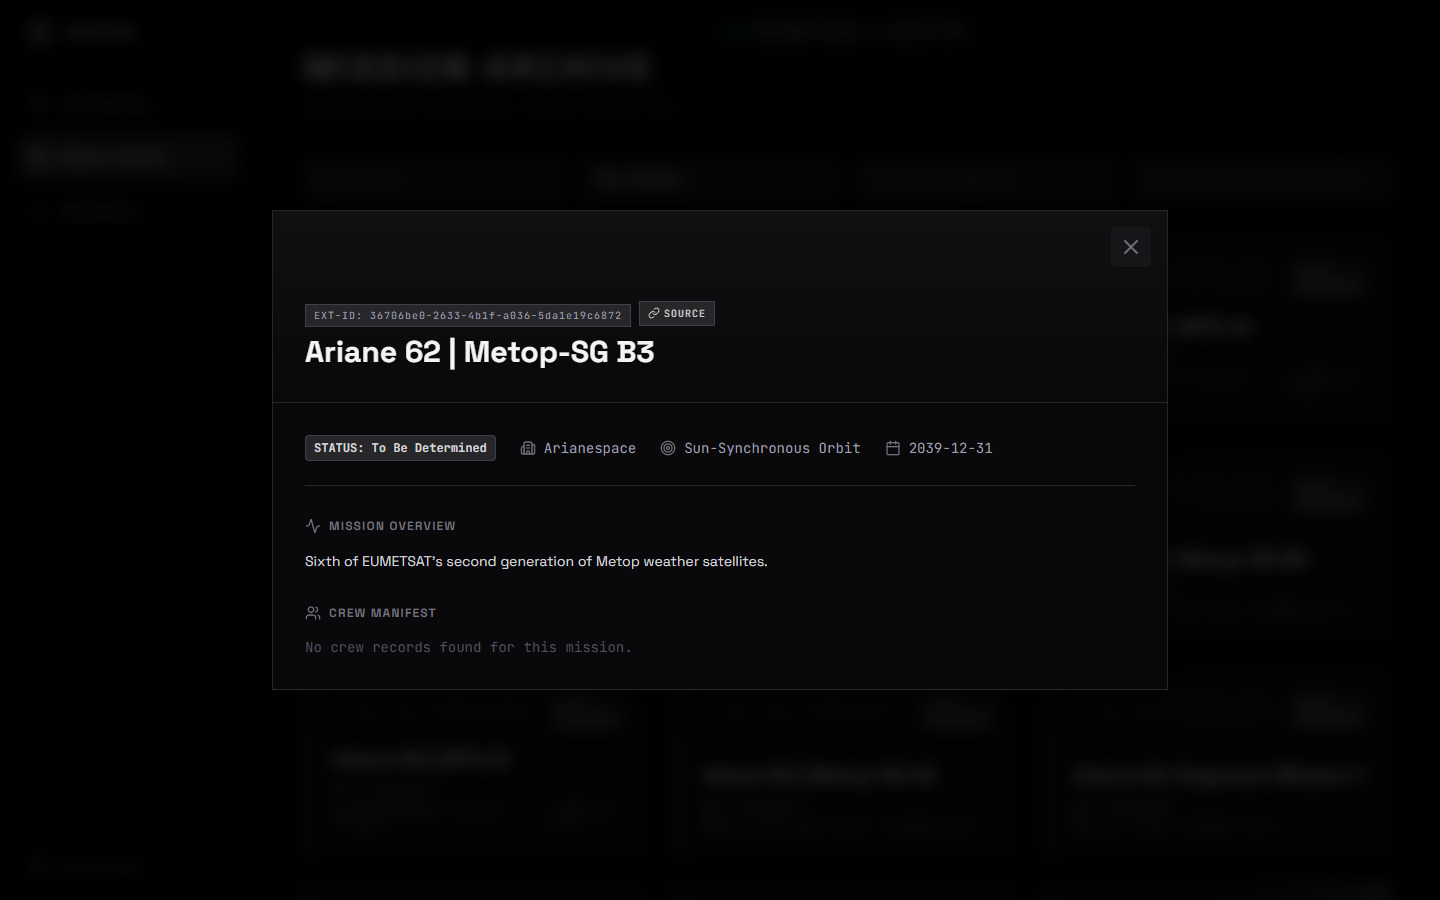
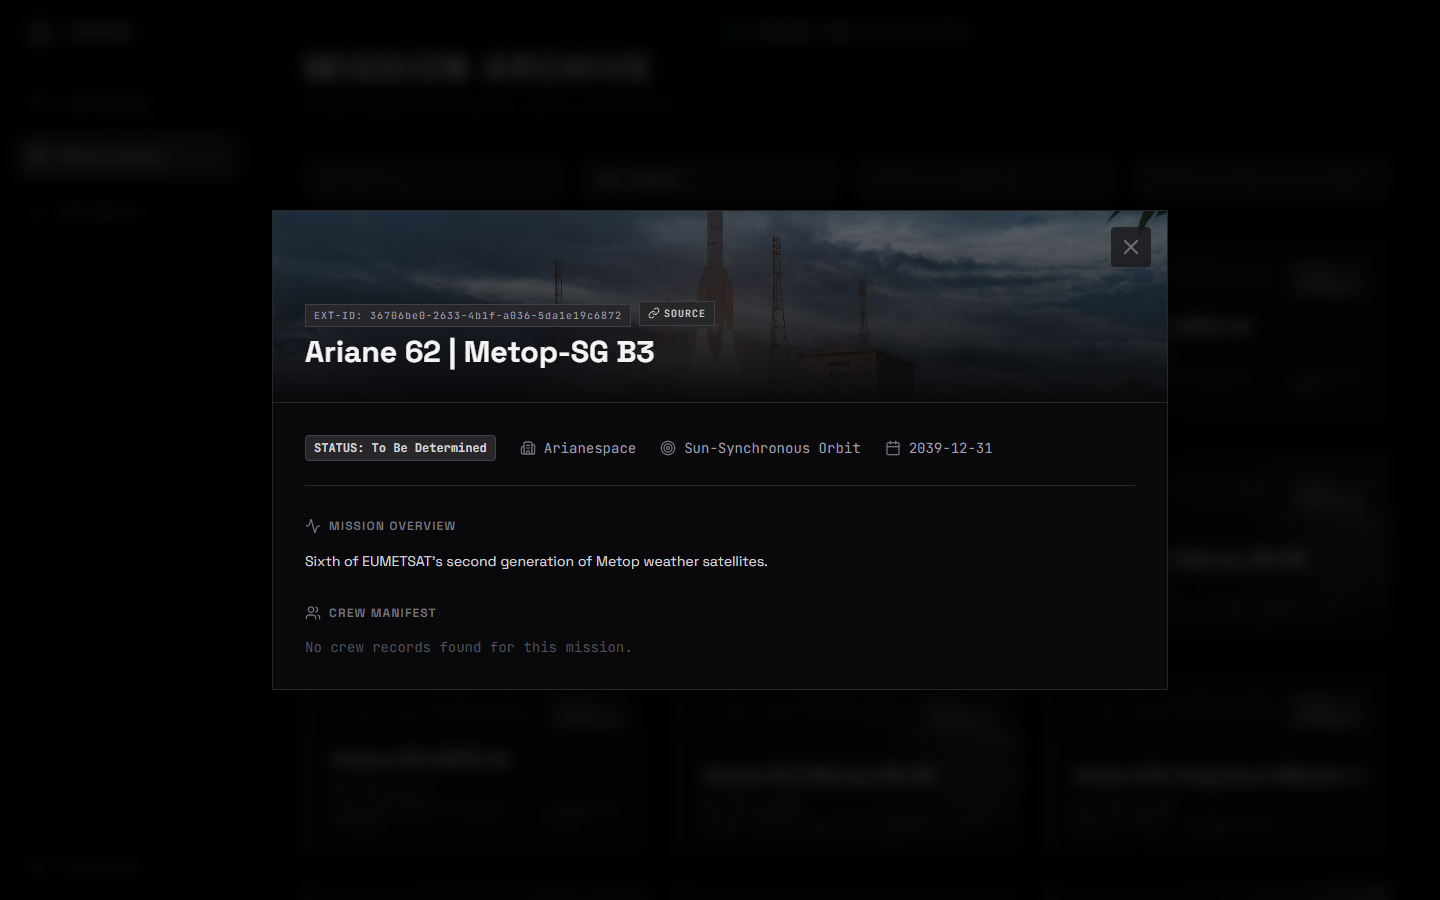
docs: polish README phrasing, fix UI copy, resolve backend lint, and update screenshots

Changed region(s): [[0.1875, 0.2178, 0.8125, 0.4044]]

diff --git a/frontend/src/pages/SimulationConsole.jsx b/frontend/src/pages/SimulationConsole.jsx
@@ -229,7 +229,7 @@ export default function SimulationConsole() {
                   className="w-full bg-zinc-950 border border-zinc-800 rounded px-3 py-2 text-white font-mono text-sm focus:outline-none focus:border-zinc-500"
                   required
                 />
-                <p className="text-[10px] font-mono text-zinc-600 mt-1">Number of concurrent records to generate and queue.</p>
+                <p className="text-[10px] font-mono text-zinc-600 mt-1">Number of records to generate and queue.</p>
               </label>
 
               <div className="pt-2">

diff --git a/frontend/src/pages/LiveTracking.jsx b/frontend/src/pages/LiveTracking.jsx
@@ -77,7 +77,7 @@ export default function LiveTracking() {
       }
     } catch (err) {
       console.error(err);
-      toast.error("AI Link Failed. Are you logged in?");
+      toast.error("AI service unavailable or rate limited.");
     } finally {
       setIsGenerating(false);
     }

diff --git a/backend/tests/test_missions.py b/backend/tests/test_missions.py
@@ -8,7 +8,7 @@ os.environ.setdefault("SECRET_KEY", "test-secret")
 import pytest
 from fastapi.testclient import TestClient
 from main import app
-from database import SessionLocal, engine
+from database import engine
 import models
 
 models.Base.metadata.create_all(bind=engine)
@@ -28,12 +28,12 @@ def setup_test_data(admin_token):
     client.post("/spacecraft", json={"name": "Test Rocket", "classification": "Rocket", "agency_id": 1}, headers={"Authorization": f"Bearer {admin_token}"})
 
     # Create Missions
-    m1 = client.post("/missions", json={
+    client.post("/missions", json={
         "name": "Alpha Mission", "target_destination": "LEO", "spacecraft_id": 1, 
         "launch_date": "2024-01-01", "status": "Success", "objective": "Test 1"
     }, headers={"Authorization": f"Bearer {admin_token}"})
 
-    m2 = client.post("/missions", json={
+    client.post("/missions", json={
         "name": "Beta Mission", "target_destination": "Moon", "spacecraft_id": 1, 
         "launch_date": "2025-01-01", "status": "Planning", "objective": "Test 2"
     }, headers={"Authorization": f"Bearer {admin_token}"})

diff --git a/README.md b/README.md
@@ -1,6 +1,6 @@
 # A.R.E.S. — Autonomous Relay & Exploration System
 
-> A full-stack space exploration platform built to ingest, buffer, and visualize high-frequency satellite telemetry using a dual-tier database architecture, real-time orbital tracking, and Generative AI.
+> FastAPI + React telemetry system demonstrating Redis-buffered ingestion, Postgres persistence, JWT-protected admin operations, and a public mission archive.
 
 ![FastAPI](https://img.shields.io/badge/FastAPI-005571?style=for-the-badge&logo=fastapi)
 ![React](https://img.shields.io/badge/React_19-20232A?style=for-the-badge&logo=react&logoColor=61DAFB)
@@ -36,9 +36,9 @@
 
 Standard web applications rely on direct CRUD operations — a client sends data, the server writes it to a database, done. This model falls apart under the stress of high-frequency data streams like live satellite telemetry, where hundreds of data points arrive per second and a locked relational database becomes the bottleneck.
 
-**A.R.E.S.** was built to solve this problem. Instead of hammering PostgreSQL with rapid inserts, telemetry is captured instantly in an in-memory **Redis** buffer (O(1) writes) and later flushed to **PostgreSQL** via optimized bulk inserts. This dual-tier architecture is the same pattern used in production systems at companies handling real-time data at scale.
+**A.R.E.S.** was built to solve this problem. Instead of hammering PostgreSQL with rapid inserts, telemetry is captured instantly in an in-memory **Redis** buffer (O(1) writes) and later flushed to **PostgreSQL** via optimized bulk inserts. This dual-tier architecture is a standard pattern for decoupling heavy write streams from persistent storage.
 
-Beyond the engineering pipeline, A.R.E.S. is designed as an **all-in-one space exploration hub** — a platform where users can browse a realistic searchable sample of historical and active missions, track live satellites in real-time on an interactive map, and leverage AI to generate diagnostic reports from raw orbital mechanics.
+A.R.E.S. also features a public mission archive populated by the Launch Library API, a real-time satellite tracker, and an AI diagnostic module.
 
 ---
 
@@ -56,7 +56,7 @@ If you are exploring this repository to understand its technical foundations, ke
 
 ## Core Features
 
-### 🗂 Mission Archive
+### Mission Archive
 A comprehensive database of space missions — populated via an external sync with the public Launch Library API. This provides a realistic sample of historical and active space missions. Missions are linked to agencies, spacecraft, and crew members through a fully relational schema with proper foreign key constraints and cascade rules.
 
 - Full CRUD operations (Create, Read, Update, Delete)
@@ -64,15 +64,14 @@ A comprehensive database of space missions — populated via an external sync wi
 - Crew manifest management with role assignments
 - Agency and spacecraft registry
 
-### 📡 Live Satellite Tracking
-Real-time orbital tracking powered by the [Where The ISS At](https://wheretheiss.at/) API with a 15-second circuit-breaker and simulated failsafe — the dashboard never goes down, even if the external API collapses.
+### Live Satellite Tracking
+Real-time orbital tracking powered by the [Where The ISS At](https://wheretheiss.at/) API with a 15-second circuit-breaker and simulated fallback.
 
 - Live ISS position, altitude, velocity, and coordinates
 - Interactive world map with satellite positions and orbit visualization
 - Fault-tolerant polling with automatic fallback to simulated telemetry
-- Extensible architecture for tracking additional satellites via N2YO API
 
-### 🧠 AI Flight Director
+### AI Flight Director
 A Generative AI module powered by **Google Gemini Flash Lite** that translates raw orbital mechanics into human-readable diagnostic briefs. Responses are cached in Redis for 15 minutes to minimize redundant API calls.
 
 - Analyzes live telemetry (altitude, velocity, coordinates)
@@ -80,15 +79,15 @@ A Generative AI module powered by **Google Gemini Flash Lite** that translates r
 - Returns status classification (NOMINAL / WARNING)
 - Publicly accessible endpoint with response caching and IP-based rate limiting to control Gemini usage
 
-### ⚡ High-Frequency Ingestion Pipeline
+### High-Frequency Ingestion Pipeline
 The engineering centerpiece — a Redis-backed telemetry buffer that decouples data ingestion from database writes.
 
 - **Stream**: Simulated high-frequency telemetry payloads (modeling real sensors) are pushed to a Redis list (`telemetry_buffer`) in O(1) time.
 - **Buffer**: Data accumulates in memory without touching the relational database. An API endpoint monitors queue length.
 - **Flush**: Admin triggers a batched write. Records are read from Redis, bulk-inserted into PostgreSQL, then trimmed from the buffer.
-- **Why**: This architectural pattern demonstrates how to prevent database lock contention under high write loads, proving the system's viability for genuine scale.
+- **Why**: This architectural pattern demonstrates how to prevent database lock contention under high write loads.
 
-### 🔐 Secure Commander Access
+### Secure Commander Access
 Role-based access control using OAuth2 and JWT (JSON Web Tokens). Public users can browse missions, view live data, and request cached/rate-limited AI analysis. Only authenticated commanders can modify data or trigger telemetry buffer flushes.
 
 - OAuth2 password flow with JWT bearer tokens
@@ -275,7 +274,7 @@ ARES-Telemetry-System/
 
 ### Prerequisites
 - [Docker Desktop](https://www.docker.com/products/docker-desktop) (for PostgreSQL + Redis)
-- [Node.js 18+](https://nodejs.org/)
+- [Node.js 24+](https://nodejs.org/)
 - [Python 3.10+](https://www.python.org/downloads/)
 - [Google Gemini API Key](https://aistudio.google.com/apikey)
 
@@ -371,4 +370,4 @@ To maintain a focused and highly performant demonstration, the system deliberate
 
 ---
 
-*Built as a demonstration of high-throughput system design, fault-tolerant API integration, and production-grade application architecture.*
+*Built as a demonstration of high-throughput system design and fault-tolerant API integration.*
